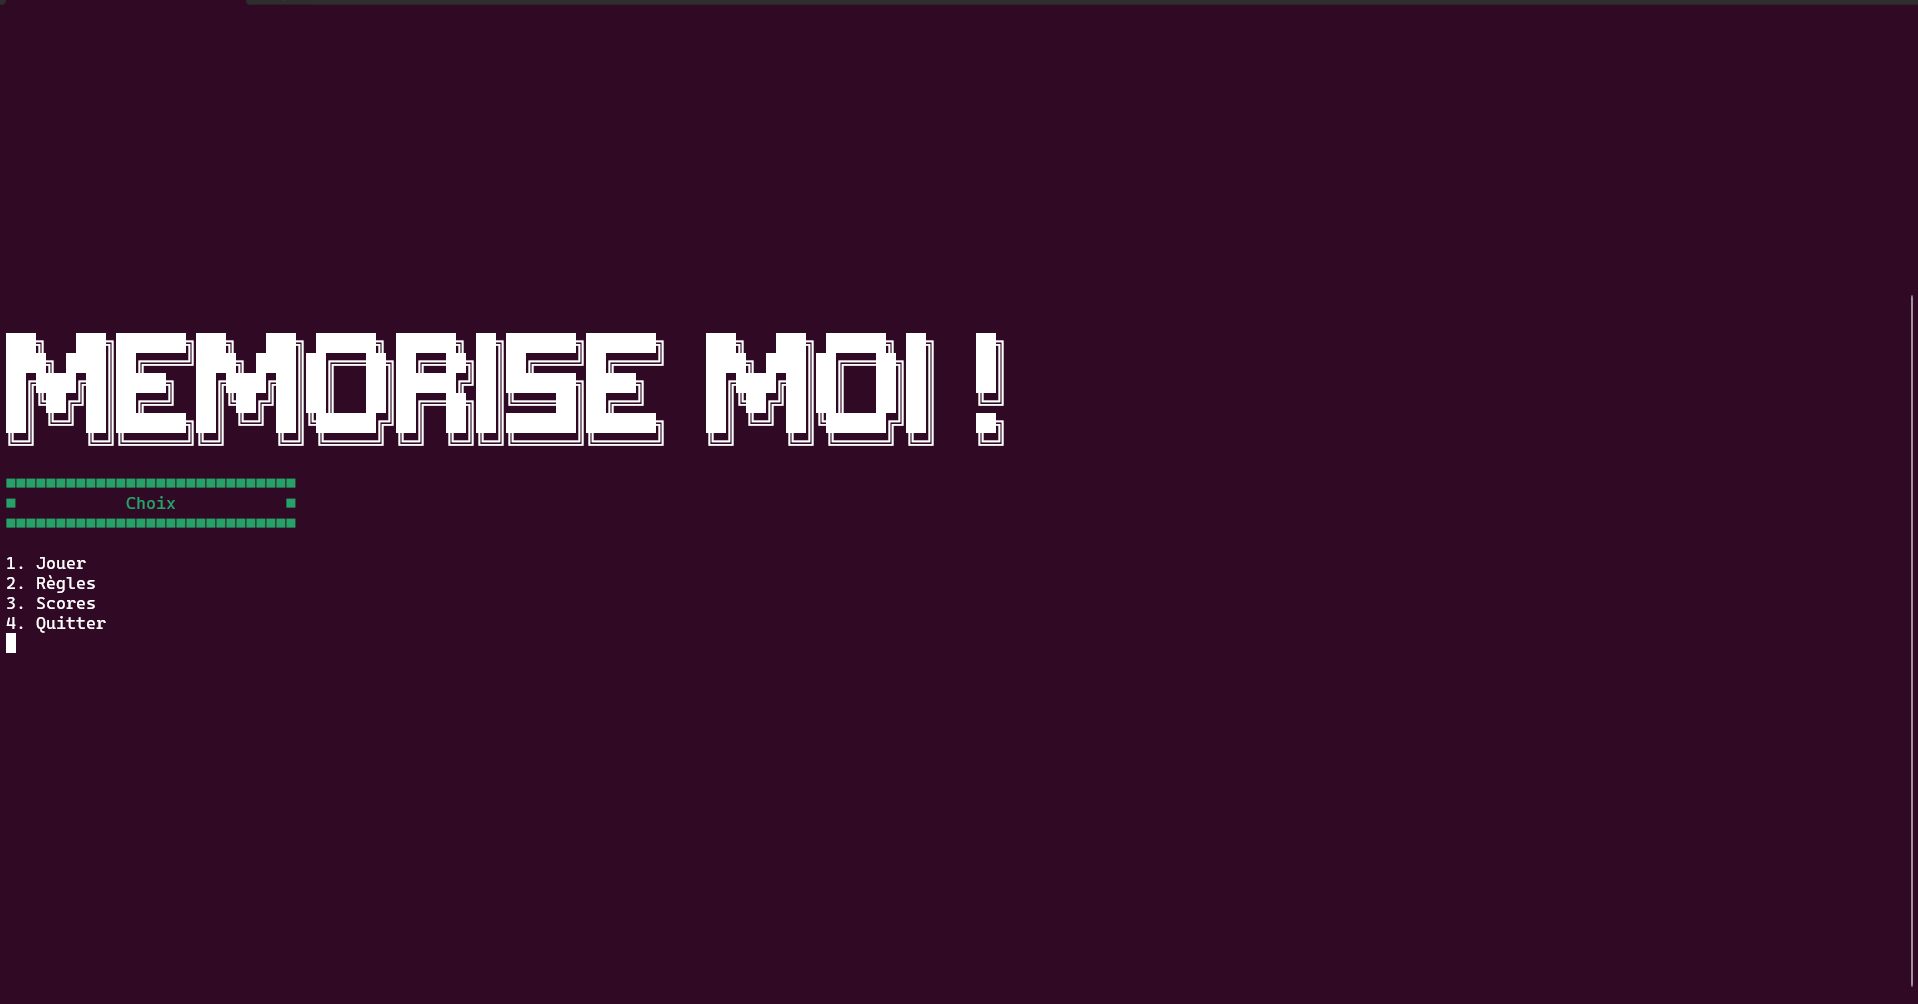
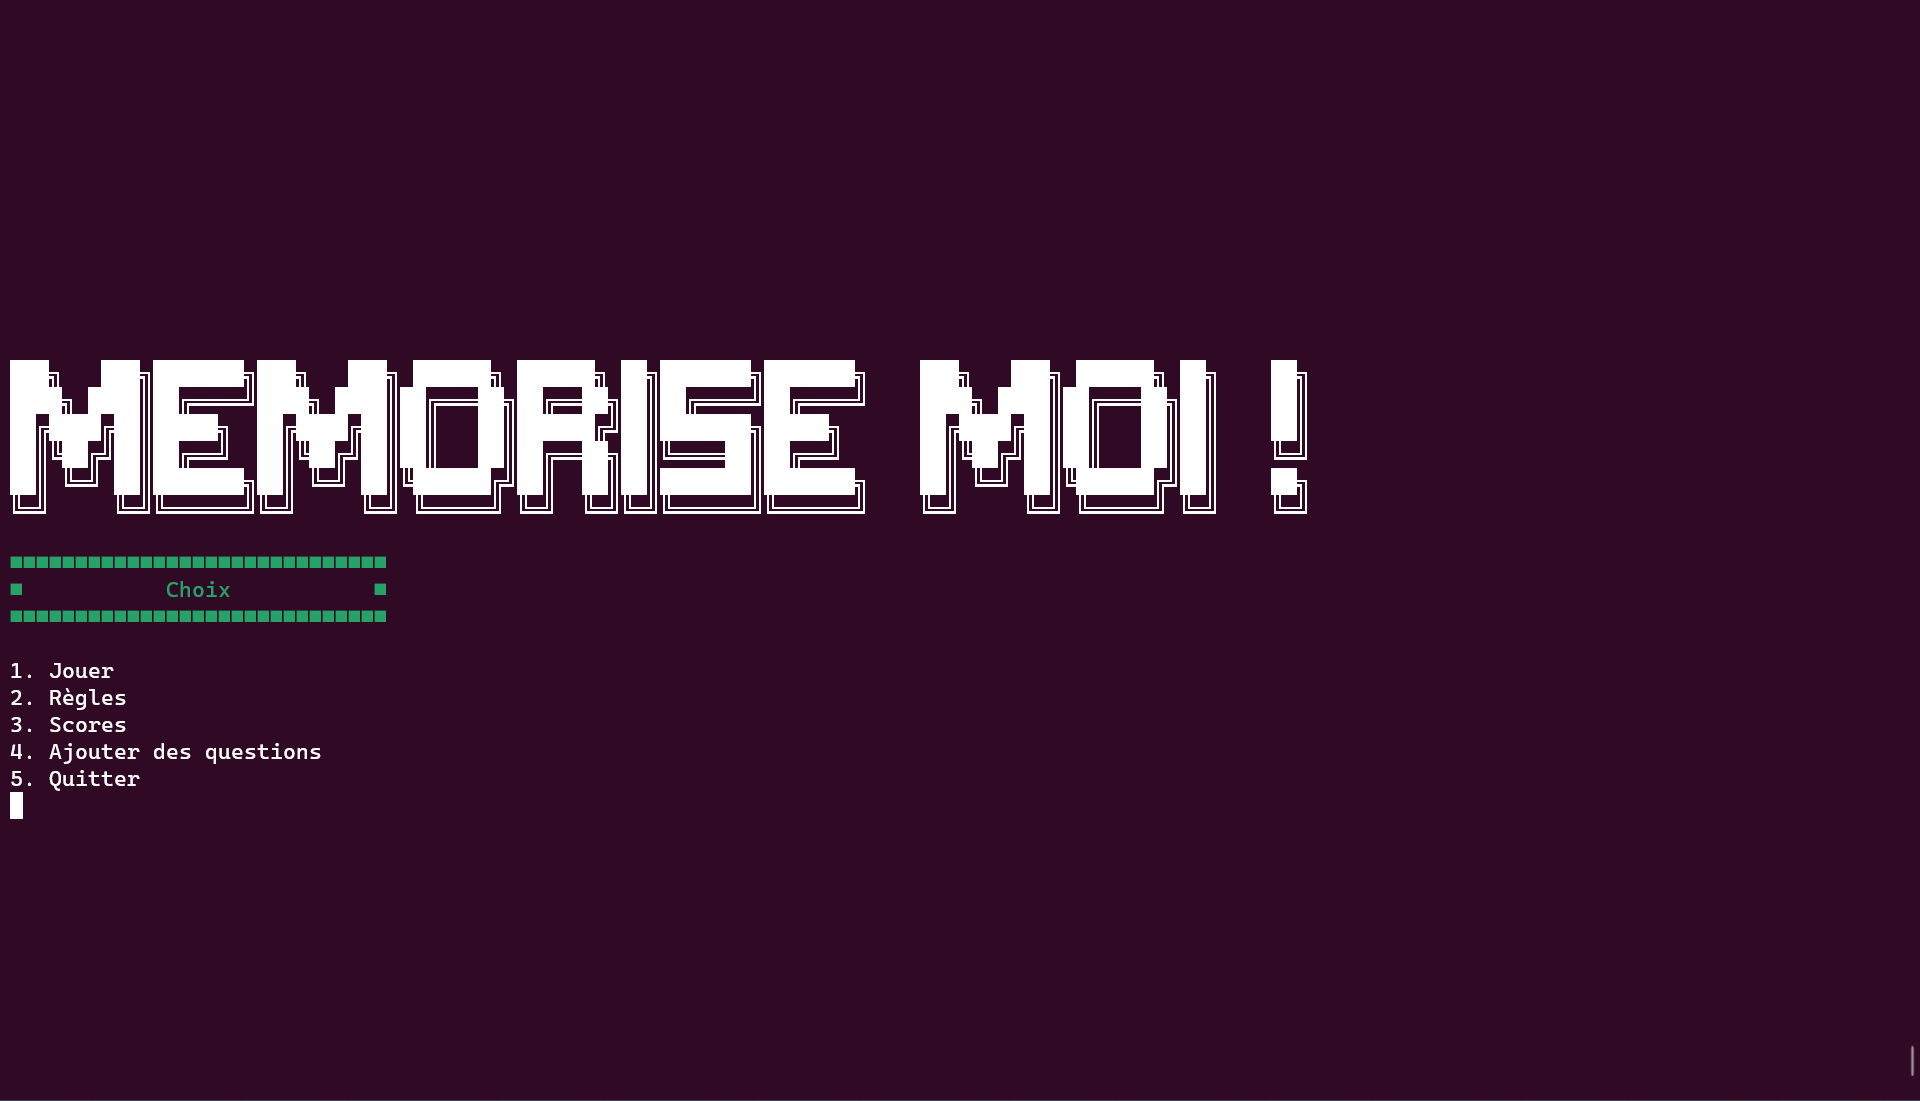
fix

Changed region(s): [[0.0, 0.3088, 0.7075, 0.741], [0.123, 0.0, 1.0, 0.0309]]

diff --git a/src/MemoriseMoi.java b/src/MemoriseMoi.java
@@ -677,7 +677,8 @@ class MemoriseMoi extends Program {
         println("Dans quelle matière voulez-vous ajouter des questions ?" + '\n' +
                 "1. Mathématiques" + '\n' +
                 "2. Histoire" + '\n' +
-                "3. Français");
+                "3. Français" + '\n' +
+                "4. Retour");
         int choix = readStringNb();
         String matiere = "";
         do {
@@ -687,42 +688,47 @@ class MemoriseMoi extends Program {
                 matiere = "histoire";
             } else if (choix == 3) {
                 matiere = "français";
+            } else if (choix == 4) {
+                clearScreen();
+                init();
             } else {
-                println("Veuillez saisir un nombre entre 1 et 3");
+                println("Veuillez saisir un nombre entre 1 et 4");
                 choix = readStringNb();
             }
-        } while (choix != 1 && choix != 2 && choix != 3);
-        println("Veuillez saisir la première question : ");
-        String question1 = readString();
-        println("Veuillez saisir la réponse à la première question : ");
-        String reponse1 = readString();
-        println("Veuillez saisir la deuxième question : ");
-        String question2 = readString();
-        println("Veuillez saisir la réponse à la deuxième question : ");
-        String reponse2 = readString();
-        CSVFile f = loadCSV("questions/"+matiere+".csv");
-        int rowCount = rowCount(f);
-        String[][] res = new String[rowCount+1][4];
-        for (int i = 0; i < rowCount; i++) {
-            res[i][0] = getCell(f, i, 0);
-            res[i][1] = getCell(f, i, 1);
-            res[i][2] = getCell(f, i, 2);
-            res[i][3] = getCell(f, i, 3);
-        }
-        res[rowCount][0] = question1;
-        res[rowCount][1] = reponse1;
-        res[rowCount][2] = question2;
-        res[rowCount][3] = reponse2;
-        saveCSV(res, "questions/"+matiere+".csv");
-        println("Vos questions ont bien été ajoutées !");
-        println("Voulez-vous ajouter d'autres questions ? (o/n)");
-        String reponse = readString();
-        if (equals(reponse,"o")) {
-            ajouterQuestions();
-        } else {
-            clearScreen();
-            init();
-        }
+        } while (choix != 1 && choix != 2 && choix != 3 && choix != 4);
+        if (choix != 4) {
+            println("Veuillez saisir la première question : ");
+            String question1 = readString();
+            println("Veuillez saisir la réponse à la première question : ");
+            String reponse1 = readString();
+            println("Veuillez saisir la deuxième question : ");
+            String question2 = readString();
+            println("Veuillez saisir la réponse à la deuxième question : ");
+            String reponse2 = readString();
+            CSVFile f = loadCSV("questions/"+matiere+".csv");
+            int rowCount = rowCount(f);
+            String[][] res = new String[rowCount+1][4];
+            for (int i = 0; i < rowCount; i++) {
+                res[i][0] = getCell(f, i, 0);
+                res[i][1] = getCell(f, i, 1);
+                res[i][2] = getCell(f, i, 2);
+                res[i][3] = getCell(f, i, 3);
+            }
+            res[rowCount][0] = question1;
+            res[rowCount][1] = reponse1;
+            res[rowCount][2] = question2;
+            res[rowCount][3] = reponse2;
+            saveCSV(res, "questions/"+matiere+".csv");
+            println("Vos questions ont bien été ajoutées !");
+            println("Voulez-vous ajouter d'autres questions ? (o/n)");
+            String reponse = readString();
+            if (equals(reponse,"o")) {
+                ajouterQuestions();
+            } else {
+                clearScreen();
+                init();
+            }
+        }   
     }
 
     /**

diff --git a/README.md b/README.md
@@ -1,5 +1,3 @@
-# Ajouter fonc ajout question
-
 # Memorise Moi !
 ===========
 
